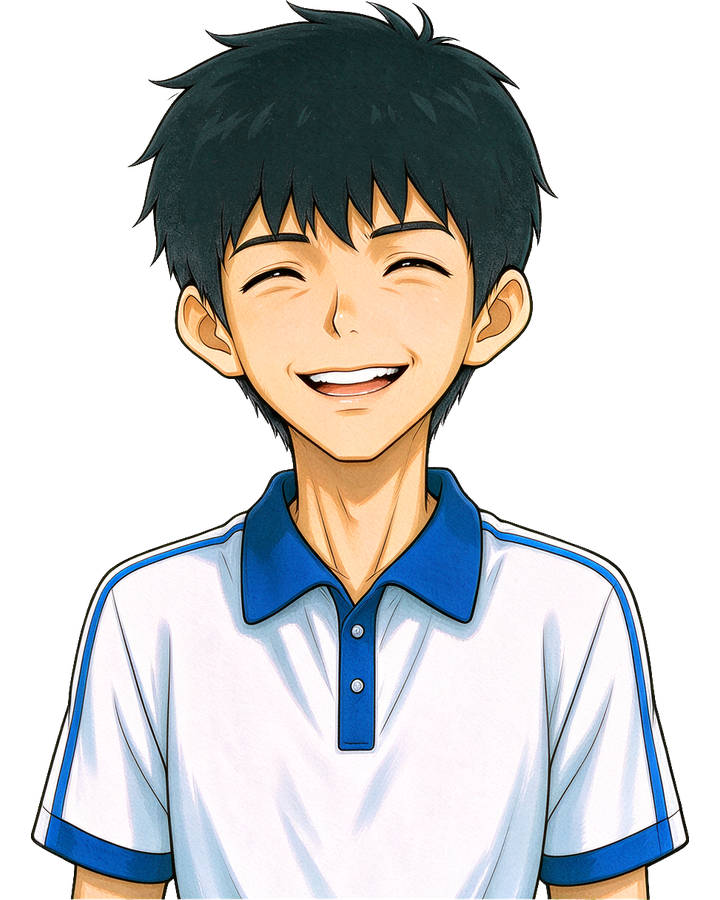
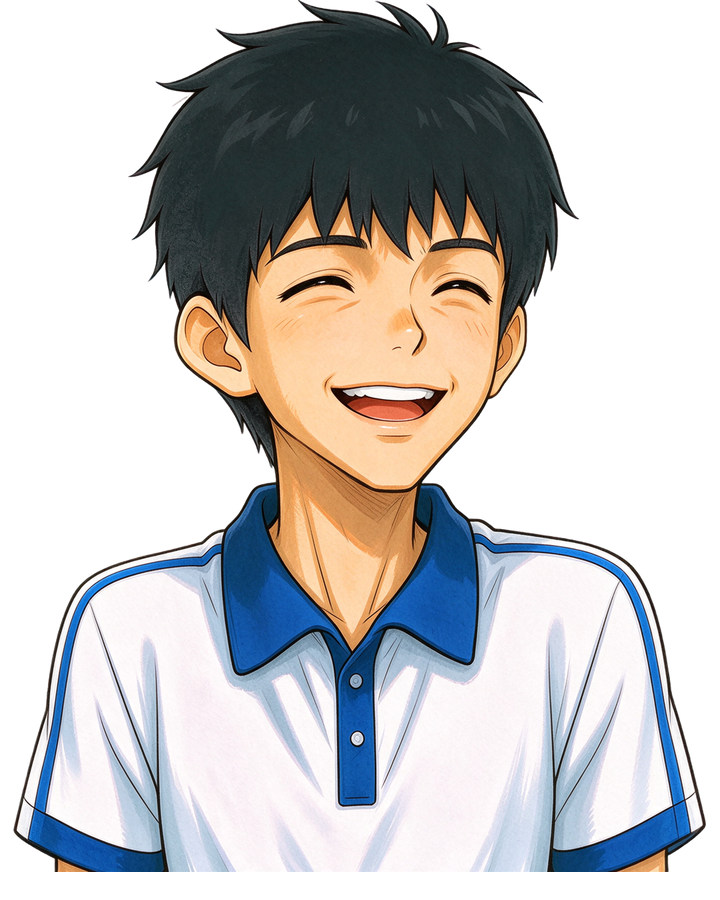
feat(assets): 立绘改用 Seedream 5.5 原生透明 Alpha 全量重出
- 16 张半身立绘全部用 keyBackdrop=transparent 重出（不再绿幕+抠像；视频仍绿幕）
- 保留原 key/文件名/bundle，仅替换像素；720×900 RGBA 规格不变
- 侍卫首轮被画成现代 T 恤，第二轮重出后采用
- 文档更新：AGENTS 规则、ASSET-CREDITS §11.20、RESOURCE-SPEC；despill 工具降为兜底

Changed region(s): [[0.0, 0.0311, 0.9778, 1.0], [0.3972, 0.0, 0.6722, 0.0622], [0.3056, 0.1244, 0.4278, 0.1867]]

diff --git a/tools/despill-portrait.py b/tools/despill-portrait.py
@@ -1,6 +1,9 @@
 #!/usr/bin/env python3
 """立绘绿边去除（despill）：把「绿幕抠像残留」从头发/边缘里拉回来。
 
+2026-11-25 起透明图改用 Seedream 5.5 原生 Alpha（不再绿幕+抠像），本工具只在
+处理历史素材或怀疑有绿边时作兜底；新图正常应为「0 px despilled」。
+
 背景：半身立绘是「纯绿 #00FF00 背景 → keyImageJob 抠像 → make-palace-portrait 裁切」。
 抠像参数 `despill 0.65` 对白色/金色主体够用，但**深色头发**是半透明边缘 + 抗锯齿，
 残留的绿不会被完全消掉；贴到深色底上就是「头发里泛绿」。2026-11-25 用户实机指出。

diff --git a/docs/ASSET-CREDITS.md b/docs/ASSET-CREDITS.md
@@ -620,6 +620,41 @@ v2 起改成每人一张、纯绿幕底（方便抠像），替换原来的 2×2
   alpha 完全不动），对全部 16 张立绘（含 11-24 之前的 6 张）统一去绿边；不是重新生成、不重新抠像。
 - 复核：上架前按火山方舟商用条款复核，商店页注明「AI 生成美术」。
 
+## 11.20 立绘全量重出：改用原生透明 Alpha（2026-11-25，t59）
+
+用户要求：「现在游戏素材大师换了支持透明通道的生图模型，以后生透明图用这个，不用生成绿幕再抠了。（生视频还用绿幕）把这一批图重新生成一套，我看头发里还是带绿的。」
+
+- 后端切换：`imageProvider=ark`、`arkModel=doubao-seedream-5-5-261028`、`keyBackdrop=transparent`
+  （见 `game_material guide config`：原生 Alpha PNG，不需要抠像；只对 Seedream 5.5 生效）。
+- 做法：16 张立绘全部重出，参考图＝旧立绘（身份/画风/构图），提示词明确「背景必须完全透明（PNG alpha 通道），
+  不要绿幕/纯色底/地面/投影/渐变」；每张 2 选 1，再用 `tools/make-palace-portrait.py --margin-x 12` 裁到 720×900，
+  最后跑一次 `tools/despill-portrait.py` 作兜底（原生 Alpha 图里绿色主导像素已≈0）。
+- 任务（模型 `doubao-seedream-5-5-261028`，1024×1280，`watermark:false`，2 张/次）：
+
+| 角色 | 任务 id | 采用 | 产物 |
+| --- | --- | --- | --- |
+| 周全·平常 | `imwvhnl9i185e86` | 第 1 张 | `ch01/portrait_zhou_neutral.png` |
+| 周全·皱眉 | `imwvhnl9qedea6b` | 第 2 张 | `ch01/portrait_zhou_frown.png` |
+| 周全·震惊 | `imwvhnl9x52e20a` | 第 2 张 | `ch01/portrait_zhou_shocked.png` |
+| 周全·快乐 | `imwvhnla2824e27` | 第 2 张 | `ch01/portrait_zhou_happy.png` |
+| 周全·尴尬 | `imwvhnla76487c2` | 第 2 张 | `ch01/portrait_zhou_awkward.png` |
+| 郑卿·平常 | `imwvhnlac37f1da` | 第 1 张 | `palace/portrait_zheng.png` |
+| 郑卿·震惊 | `imwvhnlah828127` | 第 2 张 | `palace/portrait_zheng_shocked.png` |
+| 郑卿·得意 | `imwvhnlaldfed39` | 第 1 张 | `palace/portrait_zheng_happy.png` |
+| 郑卿·尴尬 | `imwvhnlaq4d231e` | 第 2 张 | `palace/portrait_zheng_awkward.png` |
+| 小白 | `imwvhnlau5173ea` | 第 1 张 | `palace/portrait_xiaobai.png` |
+| 矿工 | `imwvhnlaz7fc7ed` | 第 1 张 | `palace/portrait_miner.png` |
+| 侍卫 | `imwvi94iue6dda8`（首轮 `imwvhnlb43d7d92` 出成现代 T 恤，弃用） | 第 1 张 | `palace/portrait_shiwei.png` |
+| 楚公公 | `imwvhnlb9e7d878` | 第 1 张 | `palace/portrait_chu.png` |
+| 老麦 | `imwvhnlbd29006a` | 第 1 张 | `ch01/kitchen/portrait_laomai.png` |
+| 老肯 | `imwvhnlbide10ea` | 第 1 张 | `ch01/kitchen/portrait_laoken.png` |
+| 周全·慌张 | `imwvhnlbnd10b8f` | 第 2 张 | `palace/portrait_zhou_panic.png` |
+
+- 验收：PNG 仍是 720×900 RGBA、四角透明、左右留边（`test/palace-five-items.test.ts` 17 张表）；
+  绿色主导像素统计≈0；实机脚本 `capture-portraits-2026-11-24.mjs`（寝室/御膳房/金殿/战斗）与
+  `capture-emotions-2026-11-25.mjs`（情绪差分/旁白收脸）全通过。
+- 复核：上架前按火山方舟商用条款复核，商店页注明「AI 生成美术」。
+
 ## 12. 御膳房 P2 B1 地图风格样张（2026-10-31）
 
 - 生成：游戏素材大师 · 图片生成，`doubao-seedream-5-0-flash-260915`，自动审核；仅作 B2 拼合风格基准，未直接进游戏。

diff --git a/docs/RESOURCE-SPEC.md b/docs/RESOURCE-SPEC.md
@@ -105,6 +105,7 @@ interface AssetDef {
 
 - 2026-11-25（t58 情绪差分立绘）：周全 4 张（`img.char.portrait.zhou` 换成新画的平常图，原皱眉图改名 `portrait_zhou_frown.png` 并赐 key `img.char.portrait.zhou_frown`；新增 `zhou_shocked / zhou_happy / zhou_awkward`），全部在共享 `ch01.portraits`（budget 3072 → 6144，实测约 5.5 MB）；郑卿 3 张（`zheng_shocked / zheng_happy / zheng_awkward`）在 `cutscene.ch01palace`（budget 保持 8192，实测约 6 MB）。文件：`assets/img/character/ch01/portrait_zhou_{neutral,frown,shocked,happy,awkward}.png`、`assets/img/character/palace/portrait_zheng_{shocked,happy,awkward}.png`，都是 720×900 RGBA 透明底。切换由台词行 cue `DialogueLine.portraitEmotion` + `SPEAKER_PORTRAIT_EMOTIONS` 决定，见 `docs/ASSET-CREDITS.md` §11.19。
 - 2026-11-25（立绘去绿边）：全部 16 张半身立绘用 `tools/despill-portrait.py` 重做一次去绿边（key/文件名/bundle 不变，只是像素修正，体积略有变化），并重跑 `assets:scan`。根因与做法见 `docs/ASSET-CREDITS.md` §11.19 末尾。
+- 2026-11-25（t59 立绘全量重出，原生透明 Alpha）：16 张立绘改用 Seedream 5.5 原生 Alpha 重出（`keyBackdrop=transparent`，不再绿幕+抠像），key/文件名/bundle 不变，仅替换像素；每张仍裁到 720×900 RGBA，实测绿色主导像素≈0。来源任务见 `docs/ASSET-CREDITS.md` §11.20。
 
 ## 3. 场景资源作用域（核心机制）
 

diff --git a/AGENTS.md b/AGENTS.md
@@ -72,7 +72,9 @@ pnpm android:release
     - 带 `cg` / `blackout` / `dark` 的行不叠立绘（画面已经由 CG / 暗场承载）。
     - 立绘是**屏幕层**：`PortraitLayer` 必须 `setScrollFactor(0)`。御膳房相机跟着玩家滚动，
       漏了这行立绘会被滚出画面（2026-11-24 实测：寝室/金殿正常、御膳房只剩黑边）。
-    - 立绘 PNG 720×900 RGBA、透明底、左右留边；**抠像后必须跑 `tools/despill-portrait.py`**（深色头发的绿幕残留会泛绿，2026-11-25 实机指出）；按角色共用程度分三个 bundle：
+    - 立绘 PNG 720×900 RGBA、透明底、左右留边。**2026-11-25 起透明图一律用 Seedream 5.5 原生 Alpha**
+      （游戏素材大师 `keyBackdrop=transparent` + `arkModel=doubao-seedream-5-5-*`），**不再生成绿幕再抠像**
+      （视频仍绿幕）；老素材的绿边兜底工具 `tools/despill-portrait.py` 保留。按角色共用程度分三个 bundle：
       `ch01.portraits`（周全/小白/矿工，四个场景共用）、`ch01.kitchen`（老麦/老肯）、
       `cutscene.ch01palace`（郑卿/楚公公/侍卫/周全慌张）。key 统一 `img.char.portrait.*`。
     - 对话结束/跳过/进菜单必须 `portrait.hide()`，SHUTDOWN 必须 `destroy()`（场景实例会复用）。
